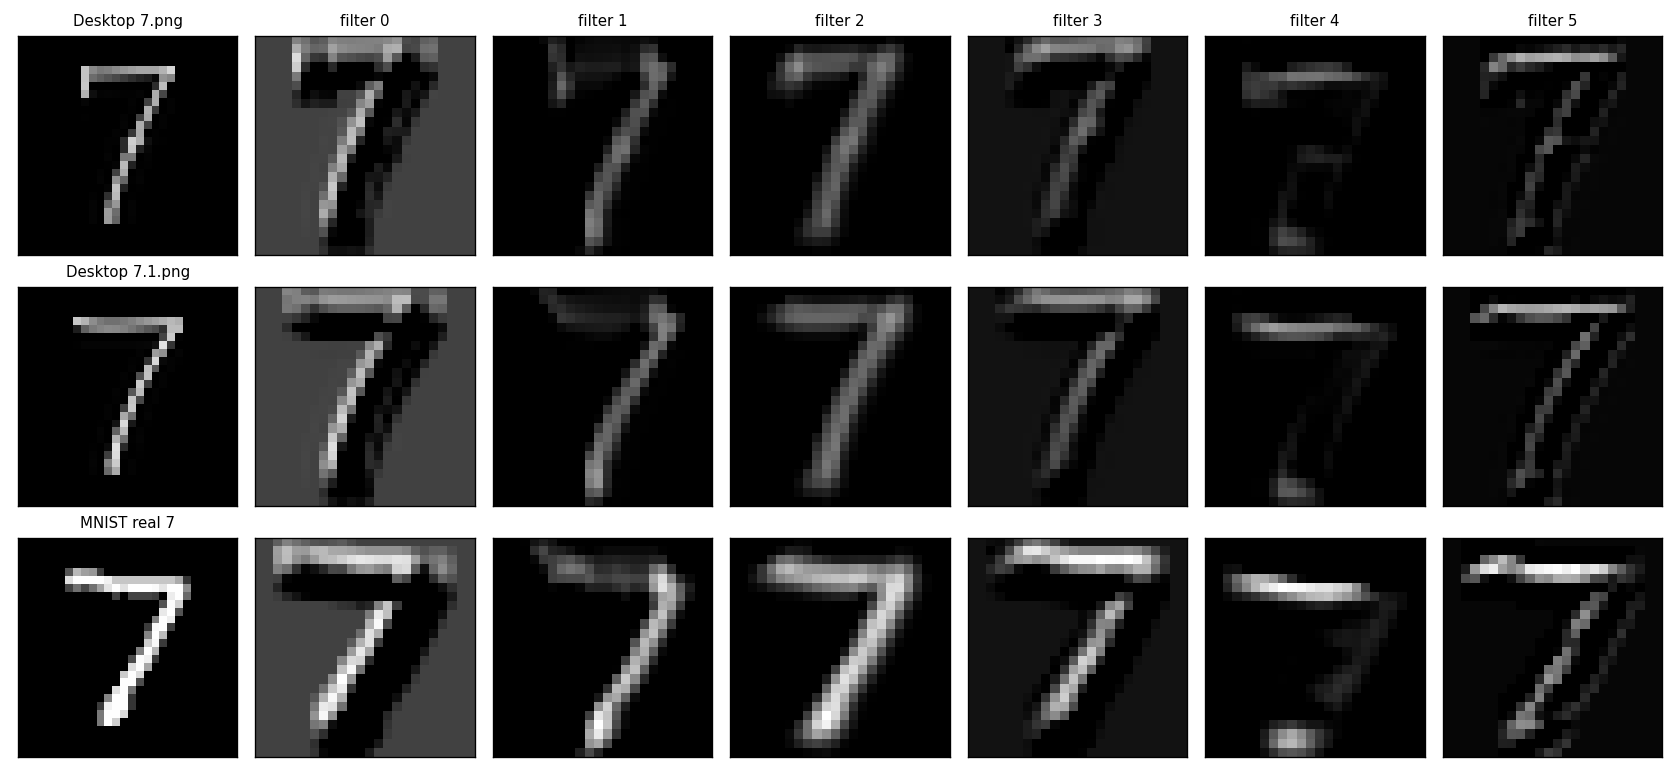
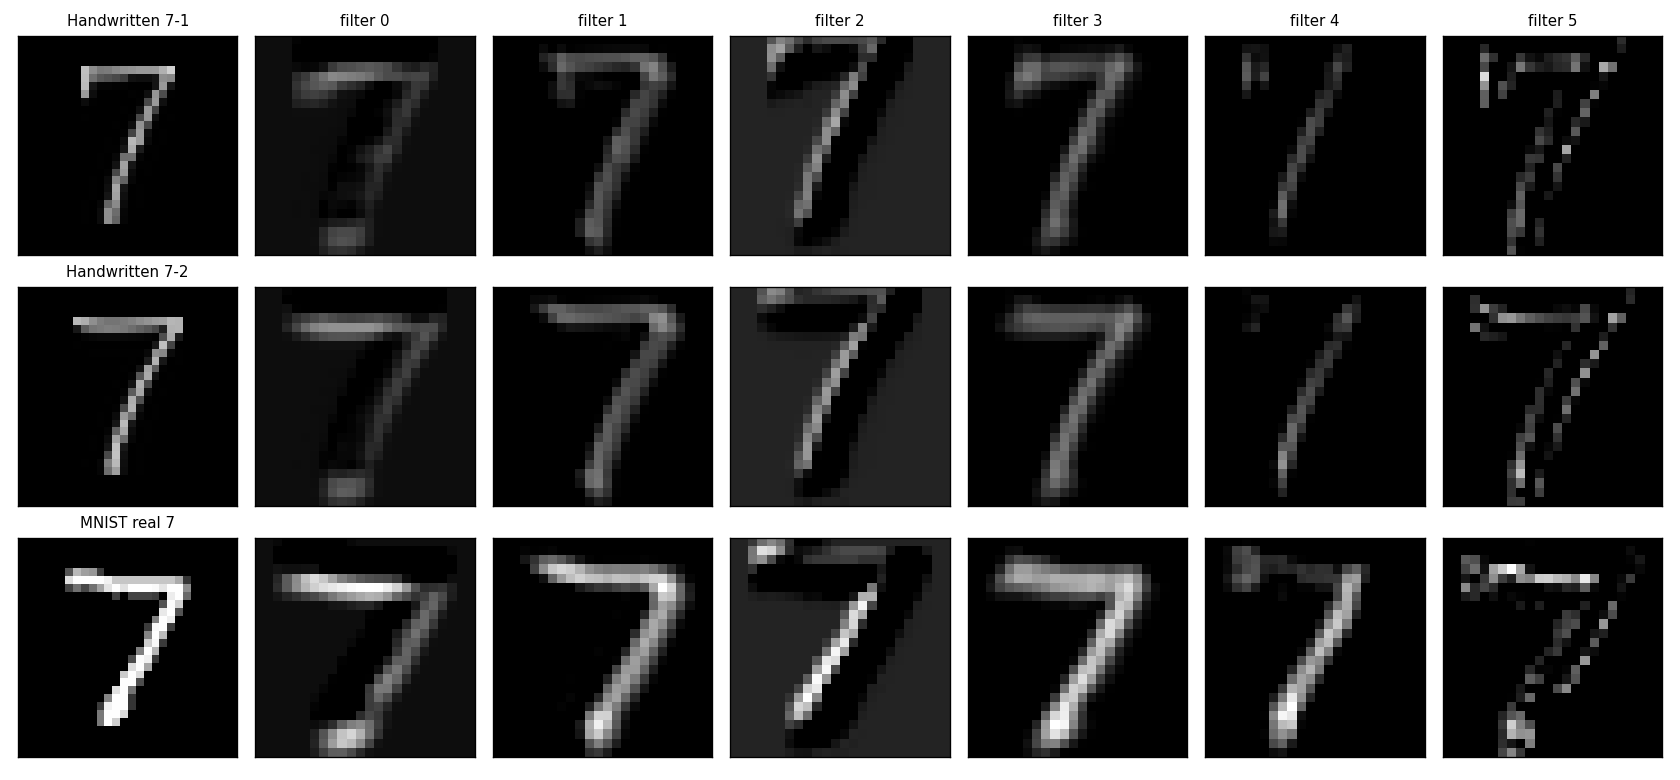
重构模型定义：nn.Sequential -> class MyCNN(nn.Module)，结构集中到 model.py
- 新增 model.py，所有脚本共用一份结构定义
  （手抄结构时抄错过一次：输出层多写了个 ReLU，输出全变成非负）
- features() 替代 model[:2]；named_children() 替代 enumerate(model)
- 重训后测试集 99.06%
- README 修正：「filter 0 是背景检测器」-> 「总有一个核学成背景检测器，
  但编号随机 —— 重训后从 filter 0 变成了 filter 2」

diff --git a/feature_maps.py b/feature_maps.py
@@ -16,9 +16,9 @@ HERE   = os.path.dirname(os.path.abspath(__file__))
 DESKTOP = os.path.abspath(os.path.join(HERE,"..",".."))
 
 IMAGES=[
-    ("Desktop 7.png", os.path.join(DESKTOP, "7.png")),
-    ("Desktop 7.1.png", os.path.join(DESKTOP, "7.1.png")),
-    ("MNIST real 7", os.path.join(HERE, "_debug", "mnist7.png")),
+    ("Handwritten 7-1", os.path.join(HERE, "_debug", "7_28x28.png")),
+    ("Handwritten 7-2", os.path.join(HERE, "_debug", "7.1_28x28.png")),
+    ("MNIST real 7",    os.path.join(HERE, "_debug", "mnist7.png")),
 ]
 
 model=build_model()
@@ -51,17 +51,16 @@ for name, path in IMAGES:
 
 print()
 print("模型结构：")
-for i,layer in enumerate(model):
-    print("model[%d]=%s"%(i,layer))
+for name,layer in model.named_children():
+    print(" %-6s %s"%(name,layer))
 
 feats=[]
 for (name, path), t in zip(IMAGES, tensors):
       with torch.no_grad():
-          f = model[:2](t)
+          f = model.features(t)
       feats.append(f)
       print("%-16s %s -> %s" % (name, tuple(t.shape), tuple(f.shape)))
 
-print("切片是复制还是共享？", model[:2][0] is model[0])
 
 fig,axes=plt.subplots(3,7,figsize=(14,6.5))
 

diff --git a/model.py b/model.py
@@ -1,0 +1,35 @@
+"""模型结构定义"""
+
+import torch
+import torch.nn.functional as F
+from torch import nn
+
+class MyCNN(nn.Module):
+    """手写数字分类的CNN"""
+
+    def __init__(self):
+        super().__init__()
+        self.conv1 = nn.Conv2d(1,6,kernel_size=5)
+        self.conv2 = nn.Conv2d(6,16,kernel_size=5)
+        self.fc1 = nn.Linear(16*4*4,120)
+        self.fc2 = nn.Linear(120, 10)
+
+    def features(self,x):
+        """第一层卷积加relu"""
+        return F.relu(self.conv1(x))
+
+    def forward(self,x):
+        """前向传播"""
+        x = F.relu(self.conv1(x))#卷积+relu
+        x = F.max_pool2d(x,2)#池化
+        x = F.relu(self.conv2(x))
+        x = F.max_pool2d(x,2)
+        x=torch.flatten(x,1)#铺平
+        x = F.relu(self.fc1(x))#全连接+relu
+        x = self.fc2(x)
+        return x
+if __name__ == "__main__":
+     m = MyCNN()
+     print("参数量:", sum(p.numel() for p in m.parameters()))
+     print("features 输出:", m.features(torch.randn(1, 1, 28, 28)).shape)
+     print("forward  输出:", m(torch.randn(1, 1, 28, 28)).shape)

diff --git a/mnist_softmax.py b/mnist_softmax.py
@@ -5,6 +5,7 @@ from torch.utils.data import DataLoader
 from torchvision import transforms
 from torchvision.datasets import MNIST
 
+from model import MyCNN
 
 #数据集位置
 DATA_ROOT="./data"
@@ -27,20 +28,7 @@ print("y的形状：",y.shape)
 print("y的前10标签：",y[:10].tolist())
 print("像素值范围：%.2f~%.2f"%(x.min(),x.max()))
 
-model=nn.Sequential(
-    nn.Conv2d(1,6,kernel_size=5),
-    nn.ReLU(),
-    nn.MaxPool2d(2),
-
-    nn.Conv2d(6,16,kernel_size=5),
-    nn.ReLU(),
-    nn.MaxPool2d(2),
-
-    nn.Flatten(),#模型铺平：即把【1，25，28】变成1*28*28
-    nn.Linear(16*4*4,120),#隐藏层
-    nn.ReLU(),#激活函数
-    nn.Linear(120,10),#矩阵乘法and加偏置
-)
+model=MyCNN()
 
 print(model)
 
@@ -62,7 +50,7 @@ print("损失：",loss.item())
 optimizer=torch.optim.SGD(model.parameters(),lr=0.1)
 
 #验证梯度下降
-w=model[7].weight
+w=model.fc1.weight
 IDX=[0,1,2,3,4]
 w_before=w[0][IDX].clone()
 

diff --git a/predict.py b/predict.py
@@ -17,26 +17,15 @@ import torch
 from torch import nn
 from PIL import Image
 from scipy import ndimage
+from model import MyCNN
 
 HERE=os.path.dirname(os.path.abspath(__file__))
 WEIGHTS=os.path.join(HERE,"mnist_cnn.pth")
 
 def build_model():
-    # ★ 必须和 mnist_softmax.py 里的 model 定义【一字不差】，
+    # ★ 必须和 mnist_softmax.py 里的 model 定义一字不差，
     #   否则 load_state_dict 会因为参数名对不上而报错。
-    #   （模型结构一改，这里就要同步改 —— 这就是"结构散在两个文件里"的痛点。）
-    return nn.Sequential(
-        nn.Conv2d(1, 6, kernel_size=5),
-        nn.ReLU(),
-        nn.MaxPool2d(2),
-        nn.Conv2d(6, 16, kernel_size=5),
-        nn.ReLU(),
-        nn.MaxPool2d(2),
-        nn.Flatten(),
-        nn.Linear(16 * 4 * 4, 120),
-        nn.ReLU(),
-        nn.Linear(120, 10),
-    )
+    return MyCNN()
 
 
 def load_model():

diff --git a/shift_feature_maps.py b/shift_feature_maps.py
@@ -33,7 +33,7 @@ def shift_image(a, dy, dx):
 
 
 # ---------- 1. 造出三张平移图（唯一变量：位置） ----------
-base = preprocess(os.path.join(DESKTOP, "7.png"))[0, 0].numpy()
+base = preprocess(os.path.join(HERE, "_debug", "7_28x28.png"))[0, 0].numpy()
 
 shifted = []
 print("=== 1. 三张平移图 ===")
@@ -50,7 +50,7 @@ print("=== 2. 第一层特征图 ===")
 for s, b in zip(SHIFTS, shifted):
     t = torch.tensor(b, dtype=torch.float32).view(1, 1, 28, 28)
     with torch.no_grad():
-        feats.append(model[:2](t)[0].numpy())
+        feats.append(model.features(t)[0].numpy())
         pred = int(torch.softmax(model(t), dim=1).argmax())
     print("  右移 %d 像素  ->  特征图 %s   整网预测 = %d" % (s, tuple(feats[-1].shape), pred))
 

diff --git a/exp_translation.py b/exp_translation.py
@@ -42,6 +42,8 @@ matplotlib.rcParams["font.sans-serif"] = ["SimHei", "Microsoft YaHei"]
 matplotlib.rcParams["axes.unicode_minus"] = False
 import matplotlib.pyplot as plt
 
+from model import MyCNN
+
 HERE = os.path.dirname(os.path.abspath(__file__))
 DATA = os.path.join(HERE, "data")
 CNN_PATH = os.path.join(HERE, "mnist_cnn.pth")
@@ -65,18 +67,7 @@ def build_mlp():
 
 
 def build_cnn():
-    return nn.Sequential(
-        nn.Conv2d(1, 6, kernel_size=5),
-        nn.ReLU(),
-        nn.MaxPool2d(2),
-        nn.Conv2d(6, 16, kernel_size=5),
-        nn.ReLU(),
-        nn.MaxPool2d(2),
-        nn.Flatten(),
-        nn.Linear(16 * 4 * 4, 120),
-        nn.ReLU(),
-        nn.Linear(120, 10),
-    )
+    return MyCNN()
 
 
 def train(model, loader, tag):

diff --git a/平移实验结果.md b/平移实验结果.md
@@ -4,13 +4,13 @@
 
 | 平移量 | MLP | CNN | 差距 |
 |---|---|---|---|
-| 0 像素 | 97.95% | 98.97% | +1.02 |
-| 1 像素 | 96.47% | 98.59% | +2.12 |
-| 2 像素 | 87.14% | 96.89% | +9.75 |
-| 3 像素 | 63.82% | 89.81% | +25.99 |
-| 5 像素 | 19.03% | 46.20% | +27.17 |
+| 0 像素 | 97.95% | 99.06% | +1.11 |
+| 1 像素 | 96.47% | 98.81% | +2.34 |
+| 2 像素 | 87.14% | 97.09% | +9.95 |
+| 3 像素 | 63.82% | 90.28% | +26.46 |
+| 5 像素 | 19.03% | 47.47% | +28.44 |
 
-**MLP 总共掉了 78.92 个百分点；CNN 总共掉了 52.77 个百分点。**
+**MLP 总共掉了 78.92 个百分点；CNN 总共掉了 51.59 个百分点。**
 
 结论：CNN 的平移鲁棒性明显更强 —— 这来自卷积的「权值共享」，
 同一个卷积核在图上任何位置都能用。
